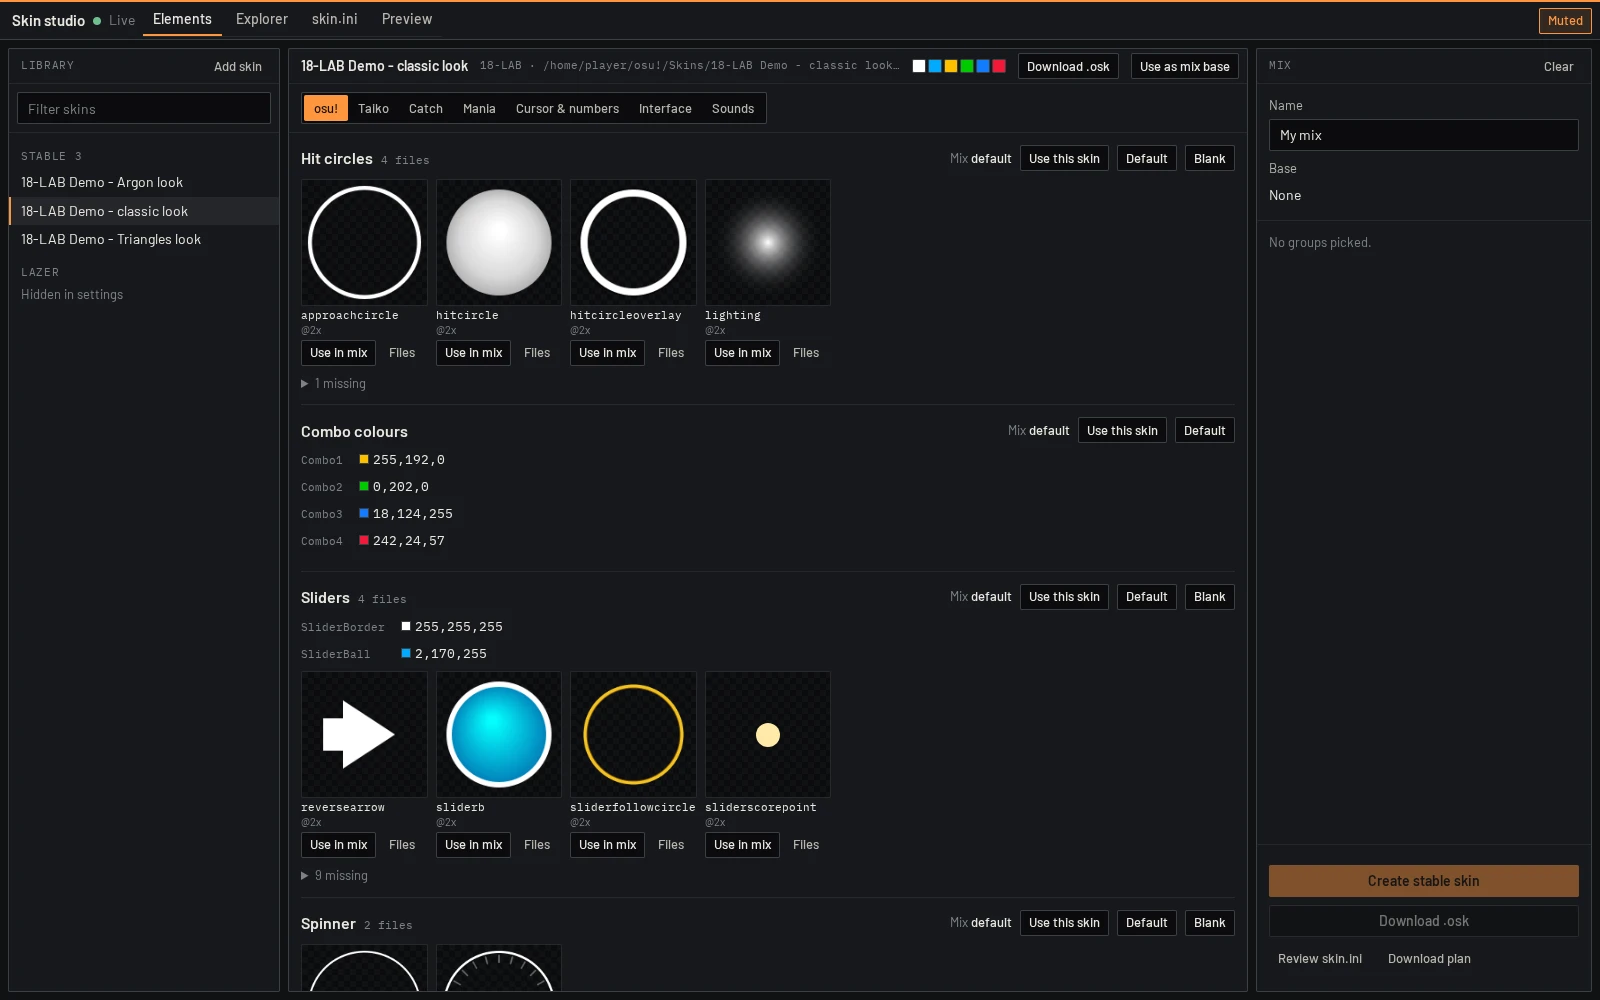
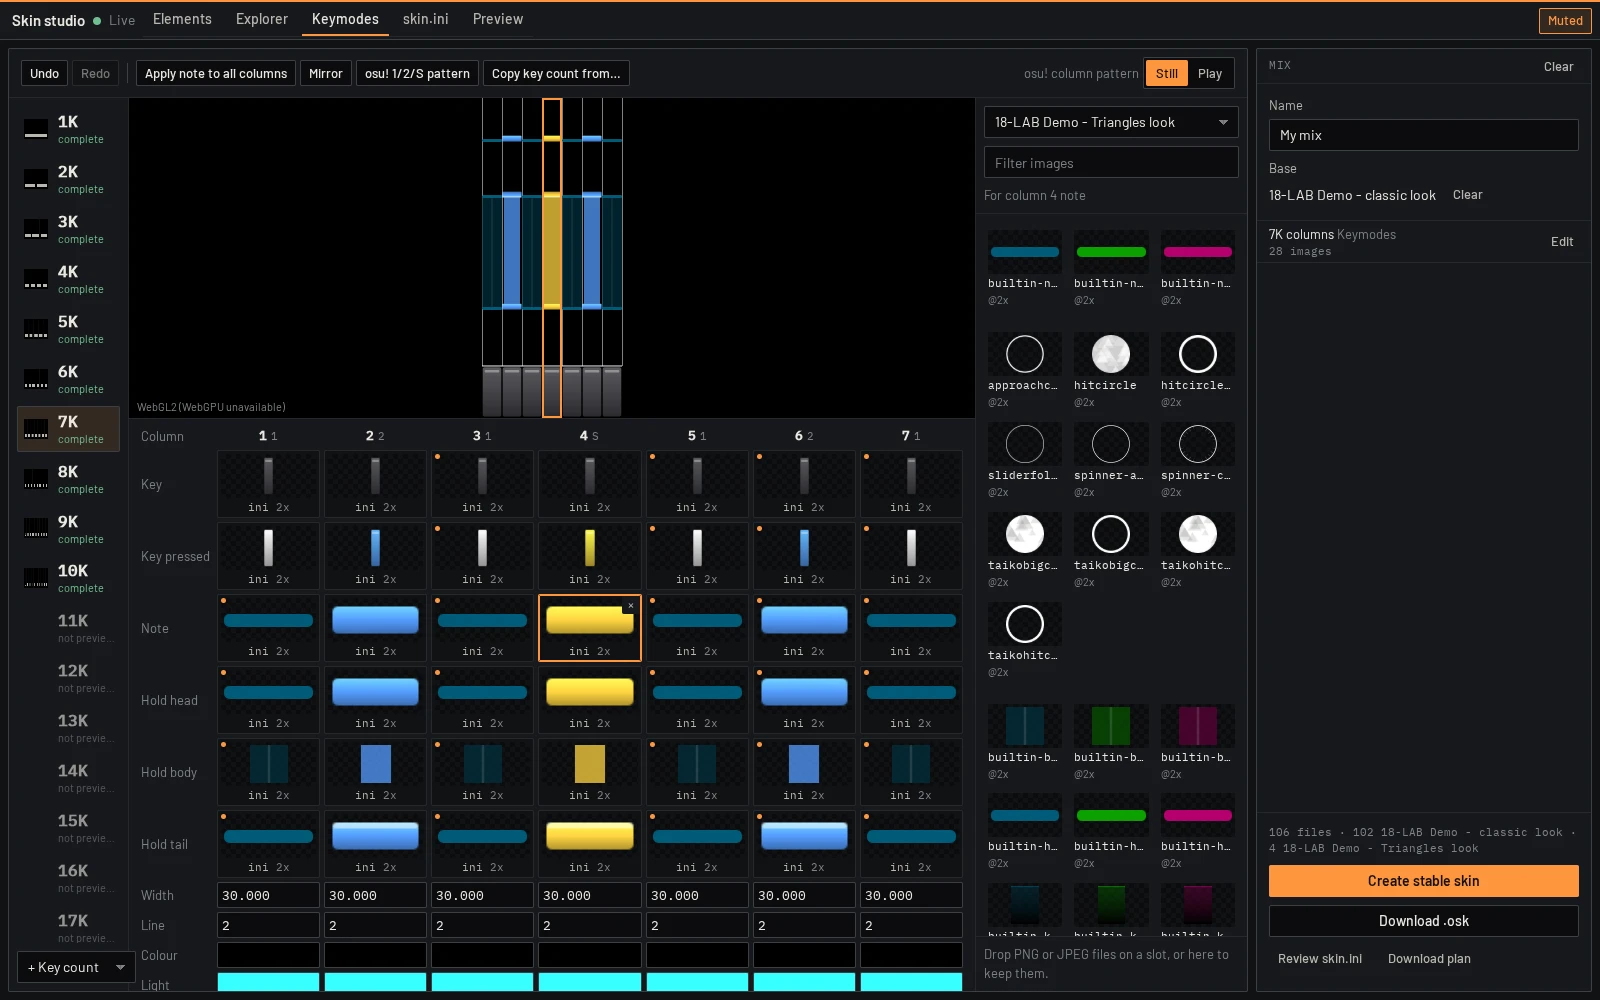
docs: Keymodes preview, tools page with catalog card art
skin-studio.webp shows the new Keymodes tab on a 7K mix of the skins
exported from render-core (classic look with Triangles notes). tools.webp
is re-taken from the official catalog with a vosu that serves catalog
card art (8815406), so vosulay's Available card shows its icon and banner.
The sandbox now mounts a fresh /proc for its PID namespace.

diff --git a/docs/screenshots/README.md b/docs/screenshots/README.md
@@ -9,11 +9,11 @@ The README's pictures are real tool pages at 1600×1000 in the dark theme, with 
 
 | File | Shows | Data | Size |
 | --- | --- | --- | --- |
-| `tools.webp` | Dashboard Tools page with all eight tools installed as official and trusted; vosulay is listed under Available | **Official-catalog mode**: the latest published release from `18-lab-dev/vosu-tools` (v0.1.0, tag `f4255f1`, captured 2026-10-26), installed through vosu's normal catalog flow. `state.json` records `catalog_source` `18-lab-dev/vosu-tools` and `official: true` for every tool. No game attached. | 70 KiB |
+| `tools.webp` | Dashboard Tools page with all eight tools installed as official and trusted; vosulay (from vosu's other default source) is listed under Available with its icon and banner | **Official-catalog mode**: the latest published release from `18-lab-dev/vosu-tools` (v0.1.0, tag `f4255f1`), installed through vosu's normal catalog flow, captured 2026-10-26. `state.json` records `catalog_source` `18-lab-dev/vosu-tools`, `official: true` and `trusted: true` for every tool. The vosu was an unreleased debug build of vosu commit `8815406` (branch `fix/catalog-art`, which serves catalog card art through vosu) with the `test-harness` feature. No game attached. | 71 KiB |
 | `practice.webp` | 1.25×, Mirror and one kept section (0:20–0:39), with the preview (two circles, a ticked slider, approach circles) and the notes-per-second timeline | osu! tour; the packaged practice backend runs beside vosu with the map as its host context (a stand-in host, as in `tools/practice/tests/smoke.py`) | 69 KiB |
 | `server-pp.webp` | Built-in Akatsuki and Mamestagram profiles plus the `rosu_reference` and `rust_example` calculators at 98.5 %, 2 misses, next to official pp | osu! tour, uploaded with `vosux server-pp`; calculators from `tools/server-pp/tests/fixtures/calculators` | 46 KiB |
 | `mania-ratings.webp` | Ratings, skillsets, rate curve, local MSD timeline, density | 7K tour, computed by the service through `vosux mania-ratings`; the page's selected-map request is answered with that map's ratings | 45 KiB |
-| `skin-studio.webp` | Elements tab of a library skin | Skins exported from render-core | 70 KiB |
+| `skin-studio.webp` | Keymodes tab: a 7K mix based on the classic look, whose note, hold head, body and tail come from the Triangles look in osu!'s 1/2/S column pattern | Skins exported from render-core (`18-LAB Demo - classic look`, `- Triangles look`) | 107 KiB |
 | `map-preview.webp` | Following the selected map at 0:39.050 (0.8× section): a circle, a ticked slider and approach circles, controls open | osu! tour; built-in Triangles | 59 KiB |
 | `replay-renderer.webp` | Three replays in the Overlap layout at the same moment | Generated replays of the osu! tour; exported classic look | 60 KiB |
 | `downloader.webp` | Similar-stars results and the download queue | **Sample data**: synthetic `18-LAB Sample — Sample set NN` results and queue entries, because real results come from the osu! API or a mirror | 96 KiB |
@@ -48,4 +48,4 @@ bun scripts/screenshots.mjs --official-tools-page --vosu "$SCRATCH/vosu-target/d
   --playwright-module "$SCRATCH/playwright/node_modules/playwright/index.mjs" --work "$SCRATCH/work"
 ```
 
-Isolation: the script re-runs itself inside bubblewrap, with a private network namespace (vosu on 26250/26251 and the browser reach only each other; only `--official-tools-page` keeps the network, for vosu's catalog download), a `/dev` without GPU devices (Chromium renders with SwiftShader), a private `/tmp`, and no `/run/user`. The run folder is mounted as `/home/player`, which serves as HOME and every XDG directory, so paths in the pictures show that home. Nothing opens on the desktop, and the user's own vosu, settings and osu! folders are never touched.
+Isolation: the script re-runs itself inside bubblewrap, with a private network namespace (vosu on 26250/26251 and the browser reach only each other; only `--official-tools-page` keeps the network, for vosu's catalog download), a private PID namespace with its own `/proc` (no osu!, lazer or other vosu process is visible to vosu), a `/dev` without GPU devices (Chromium renders with SwiftShader), a private `/tmp`, and no `/run/user`. The run folder is mounted as `/home/player`, which serves as HOME and every XDG directory, so paths in the pictures show that home. Nothing opens on the desktop, and the user's own vosu, settings and osu! folders are never touched.

diff --git a/README.md b/README.md
@@ -42,7 +42,7 @@ Browse your stable and lazer skins, preview their elements and gameplay in every
 
 ![Skin studio](docs/screenshots/skin-studio.webp)
 
-*A skin exported from render-core's own drawing of the classic look.*
+*The Keymodes tab: a 7K mix of skins exported from render-core's own drawings of the classic and Triangles looks.*
 
 [Details](tools/skin-studio/README.md)
 
